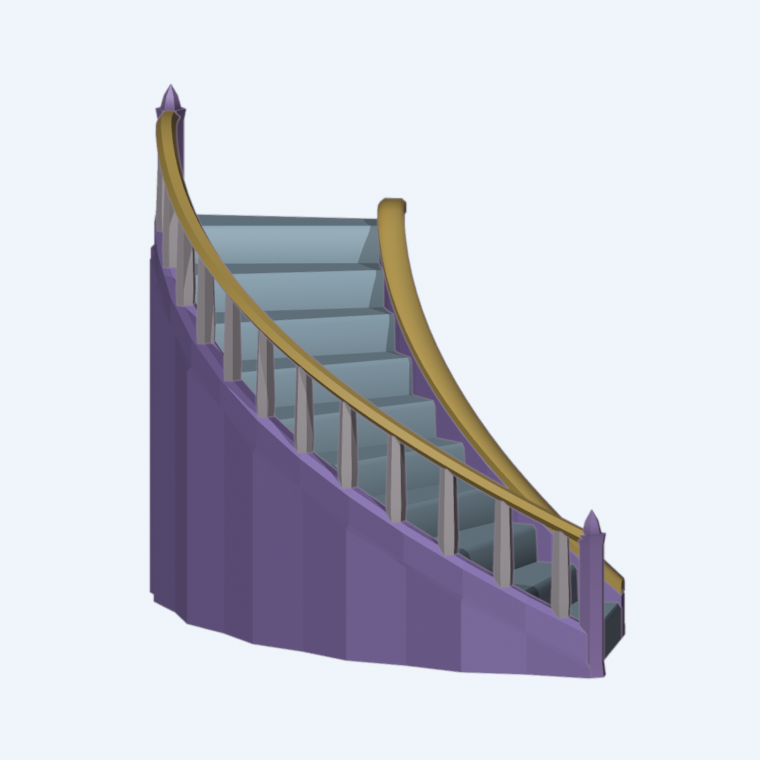
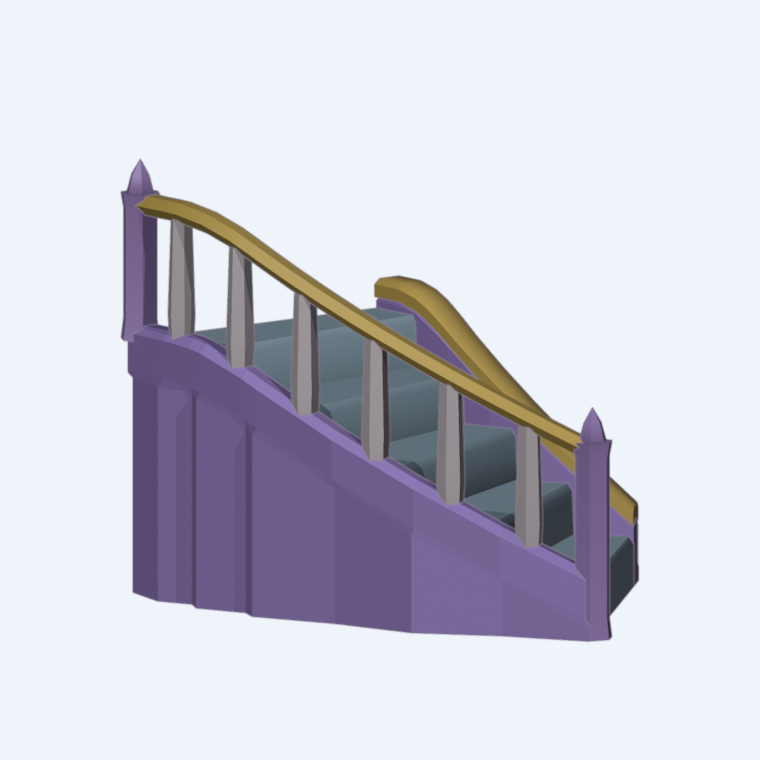
Review renders for the imperial composition, assembled from the builder's own constants
hotel_render.py now imports hotel_build, so the composition shots are laid out
from the very constants the geometry was made from — a sweep that changes moves
the render with it instead of quietly showing a composition that no longer
exists (which is what happened to staircase-pair-front last round).

New: staircase-straight, staircase-straight-rake, landing-nose, and three
assembly shots (iso, front elevation, and a close look at the landing where
three flights meet), the last three standing on plain stand-in slabs for the
floor, the landing and the gallery because whether the flights land on each
other is the whole question.

staircase-pair{,-front} are gone: that composition no longer exists.

Claude-Session: https://claude.ai/code/session_01BJHhmqvhccFFTUT8YTongf

Changed region(s): [[0.1513, 0.0908, 0.8474, 0.9079]]

diff --git a/art/blend/hotel_render.py b/art/blend/hotel_render.py
@@ -17,11 +17,28 @@ two disagree, the model file is right and this one is stale.
 
 import math
 import os
+import sys
 
 import bpy
 from mathutils import Vector
 
-REPO = os.path.dirname(os.path.dirname(os.path.dirname(os.path.abspath(__file__))))
+HERE = os.path.dirname(os.path.abspath(__file__))
+if HERE not in sys.path:
+    sys.path.insert(0, HERE)
+# No `__pycache__` beside the authoring scripts: `art/blend/` is a tracked
+# directory and `.gitignore` says nothing about `.pyc`, so importing a sibling
+# would leave a binary in `git status` after every review render.
+sys.dont_write_bytecode = True
+
+# **The composition shots take their arithmetic from the builder itself.**
+# `hotel_build` is import-safe (everything is behind `main()`), so the recipe
+# below is written in terms of the very constants the geometry was made from —
+# a stair whose sweep changes moves the review render with it instead of
+# quietly rendering a composition that no longer exists. Which is exactly what
+# happened to `staircase-pair-front` the first time round.
+import hotel_build as hb  # noqa: E402
+
+REPO = os.path.dirname(os.path.dirname(HERE))
 BLEND = os.path.join(REPO, "art", "blend", "hotel.blend")
 OUT = os.path.join(REPO, "art", "renders", "hotel")
 
@@ -108,6 +125,12 @@ COLOURS = {
     "stair-left-rail": 0xFFD76E,
     "stair-left-baluster": 0xFFF3F8,
     "stair-left-newel": 0xD7B3FF,
+    "stair-straight-tread": 0xCDEEFF,
+    "stair-straight-stringer": 0xC9A9FF,
+    "stair-straight-rail": 0xFFD76E,
+    "stair-straight-baluster": 0xFFF3F8,
+    "stair-straight-newel": 0xD7B3FF,
+    "landing-nose": 0xC9A9FF,  # PALETTE.markerLilac — the strings' own masonry
     "bridge-rail-plinth": 0xFFF2DC,  # PALETTE.signBoard
     "bridge-rail-baluster": 0xFFF3F8,  # PALETTE.blossomWhite
     "bridge-rail-hand": 0xFFD76E,  # PALETTE.liftFrame
@@ -124,18 +147,128 @@ COLOURS = {
 # uses it, because that is the arrangement the shapes have to work in.
 PART_SUFFIXES = ("tread", "stringer", "rail", "baluster", "newel")
 
-# The twin-stair placement, shared by both composition shots below. Written out
-# rather than inlined twice: the first version gave it only to the isometric
-# shot, and the front shot silently rendered both flights **stacked at the
-# origin** — which looks so plausible (a symmetric V of two mirrored flights
-# meeting at their feet) that it took measuring the picture to notice it was not
-# the composition at all. It is kept as its own shot below, because overlaid at
-# the origin is in fact the best mirror check there is.
-STAIR_PAIR_PLACES = {
-    f"stair-{hand}-{part}": (sign * 7.0, 0.0, 0.0)
-    for hand, sign in (("right", 1.0), ("left", -1.0))
-    for part in PART_SUFFIXES
-}
+# =============================================================================
+# The imperial composition, laid out from `hotel_build`'s own constants
+# =============================================================================
+#
+# Blender is the game's frame with **z up and y reversed**: game +Z is Blender
+# −y. The recipe below is written in Blender's, with the landing's front edge on
+# y = 0 and the composition climbing toward +y (which is the game's −Z, deeper
+# into the room, away from the entrance).
+#
+# `C` is the free parameter: how far apart the two arcs' centres are. It is
+# chosen so the two curves' **top newels** — which are the two ends of the
+# landing's front balustrade — come out a whole number of balustrade tiles
+# apart. A part-tile is the one thing that run cannot do.
+
+C = hb.STAIR_RAIL_R + 3.0 * hb.BRIDGE_RAIL_TILE
+"""Half the distance between the two arcs' centres: six tiles between the two
+top newels, which stand at x = ±(C − STAIR_RAIL_R) = ±3.06."""
+
+FRONT_HALF = C - hb.STAIR_RAIL_R
+"""…that run's half-length, and where the front balustrade stops each side."""
+
+SIDE_TILES = 5
+LANDING_BACK = SIDE_TILES * hb.BRIDGE_RAIL_TILE
+"""How far the platform reaches back from the curves' tops to the gallery it
+delivers you to — five tiles, so each side edge is a whole run too."""
+
+LANDING_DEPTH = LANDING_BACK - hb.STRAIGHT_RUN
+"""…and therefore where the straight flight's foot sits: what is left of the
+platform once the flight has taken its run out of it."""
+
+LANDING_HALF_X = C - hb.STAIR_INNER_R
+"""The platform's half width: out to the far end of each curve's top tread."""
+
+RAIL_INSET = 0.115
+"""Half the balustrade's depth. A run is set in by this much from the edge it
+guards, so its outer face lands exactly on that edge and the nosing below it
+still has its overhang in clear air."""
+
+
+def composition():
+    """Every piece of the assembly, as (object name, location, yaw°) in Blender.
+
+    One list, built once, so the isometric and the front elevation cannot
+    disagree about what they are showing — the exact bug that let
+    `staircase-pair-front` render two flights stacked at the origin for a whole
+    round of review.
+    """
+    places: list[tuple[str, tuple[float, float, float], float]] = []
+    # The two curves. `fromAngle = ±45°` — a rotation of ∓45° in both Blender
+    # and three.js — is what lands their top treads *square* to the landing,
+    # running along x with the climber heading into the room. With a 45° sweep
+    # you can have the foot square or the top square and not both; a floor takes
+    # a stair at any angle and a landing does not.
+    for hand, sign in (("right", 1.0), ("left", -1.0)):
+        for part in PART_SUFFIXES:
+            places.append((f"stair-{hand}-{part}", (sign * C, 0.0, 0.0), -sign * 45.0))
+    # The wide flight, standing on the landing with its bottom riser facing the
+    # entrance.
+    for part in PART_SUFFIXES:
+        places.append(
+            (f"stair-straight-{part}", (0.0, LANDING_DEPTH, hb.LANDING_HEIGHT), 0.0)
+        )
+    # The landing's front balustrade: six tiles between the two curves' top
+    # newels, which are the run's end posts — no extra newel there, because the
+    # stair already finishes with one and two posts in one place is a lump.
+    for i in range(6):
+        x = -FRONT_HALF + (i + 0.5) * hb.BRIDGE_RAIL_TILE
+        places.append(("bridge-rail-plinth", (x, RAIL_INSET, hb.LANDING_HEIGHT), 0.0))
+        places.append(("bridge-rail-baluster", (x, RAIL_INSET, hb.LANDING_HEIGHT), 0.0))
+        places.append(("bridge-rail-hand", (x, RAIL_INSET, hb.LANDING_HEIGHT), 0.0))
+        places.append(("landing-nose", (x, 0.0, hb.LANDING_HEIGHT), 0.0))
+    # …and its two side edges, the same tiles turned a quarter turn, from the
+    # front corner back to the gallery, with a newel on each end of each run.
+    for sign in (1.0, -1.0):
+        edge = sign * LANDING_HALF_X
+        yaw = sign * 90.0
+        for i in range(SIDE_TILES):
+            y = (i + 0.5) * hb.BRIDGE_RAIL_TILE
+            inset = edge - sign * RAIL_INSET
+            places.append(("bridge-rail-plinth", (inset, y, hb.LANDING_HEIGHT), yaw))
+            places.append(("bridge-rail-baluster", (inset, y, hb.LANDING_HEIGHT), yaw))
+            places.append(("bridge-rail-hand", (inset, y, hb.LANDING_HEIGHT), yaw))
+            places.append(("landing-nose", (edge, y, hb.LANDING_HEIGHT), yaw))
+        for y in (0.0, LANDING_BACK):
+            places.append(("bridge-newel", (edge - sign * RAIL_INSET, y, hb.LANDING_HEIGHT), 0.0))
+    return places
+
+
+# The floor, the landing and the gallery deck are the **room's** to build, not
+# this asset's — but a composition rendered without them is three flights
+# floating in white, and the whole question this shot exists to answer is
+# whether they land on each other. So the review render stands in for them with
+# plain boxes, in a scene it never saves. They are boxes on purpose: anything
+# more would start to look like art this file owns.
+STANDIN_SLAB = 0xD8CCEC
+STANDIN_FLOOR = 0xF4EEF9
+
+
+def standins():
+    """(name, size, centre) boxes for the assembly shot, in Blender metres."""
+    slab = 0.30
+    return [
+        (
+            "standin-floor",
+            (2 * (C - 0.8), LANDING_BACK + 4.6, 0.30),
+            (0.0, LANDING_BACK * 0.5 - 1.6, -0.15),
+            STANDIN_FLOOR,
+        ),
+        (
+            "standin-landing",
+            (2 * LANDING_HALF_X, LANDING_BACK, slab),
+            (0.0, LANDING_BACK * 0.5, hb.LANDING_HEIGHT - slab * 0.5),
+            STANDIN_SLAB,
+        ),
+        (
+            "standin-gallery",
+            (2 * (LANDING_HALF_X + 1.0), 3.4, slab),
+            (0.0, LANDING_BACK + 1.7, hb.STAIR_RISE - slab * 0.5),
+            STANDIN_SLAB,
+        ),
+    ]
+
 
 LAYOUTS = {
     "breakfast": {
@@ -166,17 +299,25 @@ LAYOUTS = {
         "lift-car-floor": (0.0, 1.45, 0.0),
         "lift-car-rail": (0.0, 1.45, 0.0),
     },
-    # **The composition shots.** Both flights are authored about the same origin,
-    # so as built they sit inside one another. This is the arrangement the
-    # reference photograph asks for: centres 14 m apart (game x = ±7, which is
-    # Blender's x unchanged), the two feet side by side toward the entrance, the
-    # two tops facing each other across a 5.6 m gap — which is the bridge's span
-    # and the width of the archway underneath it.
-    "staircase-pair": STAIR_PAIR_PLACES,
-    "staircase-pair-front": STAIR_PAIR_PLACES,
     # A newel centred on each end of a three-tile run. The handrail dies into
     # the post, which is what joinery does and what hides both end caps.
     "bridge-rail": {"bridge-newel": (-1.53, 0.0, 0.0)},
+}
+
+# Shots built entirely out of linked copies at absolute places, rather than out
+# of one collection sitting at its own origin: the composition is three flights,
+# twenty-odd balustrade tiles and a nosing run, and every one of them is a
+# *repeat* of an asset authored about its own origin.
+PLACEMENTS = {
+    "staircase-assembly": composition(),
+    "staircase-assembly-front": composition(),
+    "staircase-assembly-landing": composition(),
+}
+
+STANDINS = {
+    "staircase-assembly": standins(),
+    "staircase-assembly-front": standins(),
+    "staircase-assembly-landing": standins(),
 }
 
 # stem -> {object: [extra offsets]}. Linked copies made just for that shot and
@@ -189,6 +330,7 @@ COPIES = {
         "bridge-rail-hand": [(-1.02, 0.0, 0.0), (1.02, 0.0, 0.0)],
         "bridge-newel": [(3.06, 0.0, 0.0)],
     },
+    "landing-nose": {"landing-nose": [(-1.02, 0.0, 0.0), (1.02, 0.0, 0.0)]},
 }
 
 # Objects a shot leaves out entirely, by shot name.
@@ -247,11 +389,27 @@ SHOTS = [
     # true pair renders as an exactly left–right symmetric picture and anything
     # that is not a true pair renders as a picture that is not.
     ("staircase-mirror", ("hotel-stair-right", "hotel-stair-left"), 0.0, 14.0, 1.3),
-    # **The composition.** Both flights placed as the reference photograph has
-    # them: rising toward each other, tops facing across the bridge's span, an
-    # archway you can see straight through underneath.
-    ("staircase-pair", ("hotel-stair-right", "hotel-stair-left"), 45.0, 30.0, 1.15),
-    ("staircase-pair-front", ("hotel-stair-right", "hotel-stair-left"), 0.0, 12.0, 1.1),
+    # The wide flight on its own, from the park's camera and from the foot.
+    # The low one is the shot that says whether the two sides match: two
+    # handrails, two rows of balusters and four newels, all of which have to
+    # read as one flight rather than as two railings with a floor between them.
+    ("staircase-straight", "hotel-stair-straight", 45.0, 36.0, 1.35),
+    ("staircase-straight-rake", "hotel-stair-straight", 14.0, 9.0, 1.2),
+    # **The composition, assembled.** Three flights, the landing's balustrade
+    # and its nosing, at the spacing the placement recipe gives — standing on
+    # plain stand-in slabs for the floor, the landing and the gallery, because
+    # the question this shot exists to answer is whether they land on each
+    # other.
+    ("staircase-assembly", (), 45.0, 30.0, 1.12),
+    ("staircase-assembly-front", (), 0.0, 10.0, 1.06),
+    # …and a closer, lower look at the one join that is new: three flights and
+    # two balustrade runs meeting on the landing.
+    ("staircase-assembly-landing", (), 24.0, 26.0, 0.72),
+    # The nosing, tiled, and **cropped to the joins**. Same question as
+    # `bridge-rail`: can you see where one segment stops and the next starts?
+    # A 3 m run of a 0.2 m moulding framed whole is a stick, and a stick answers
+    # nothing — the pad crops to the middle 1.7 m, which holds both joins.
+    ("landing-nose", "hotel-landing-nose", 30.0, 26.0, 0.55),
     # Three tiles and a newel at each end. The only question this shot exists to
     # answer: can you see where one segment stops and the next starts?
     ("bridge-rail", ("hotel-bridge-rail", "hotel-bridge-newel"), 34.0, 22.0, 1.35),
@@ -299,6 +457,35 @@ def configure() -> None:
     scene.display.render_aa = "16"
     for obj in bpy.data.objects:
         obj.color = linear_rgba(COLOURS.get(obj.name, 0xCCCCCC))
+
+
+def standin_box(name: str, size, centre, colour: int):
+    """A plain box for a floor this asset does not own. Removed after the shot."""
+    hx, hy, hz = (s * 0.5 for s in size)
+    verts = [
+        (-hx, -hy, -hz),
+        (hx, -hy, -hz),
+        (hx, hy, -hz),
+        (-hx, hy, -hz),
+        (-hx, -hy, hz),
+        (hx, -hy, hz),
+        (hx, hy, hz),
+        (-hx, hy, hz),
+    ]
+    # Wound outward by hand. `hotel_build`'s `box()` is wound the other way and
+    # gets away with it because `Part.emit` recalculates normals; nothing does
+    # that here, and a slab whose top face points at the floor renders as a
+    # sheet of mid grey — which reads as a lighting choice rather than as the
+    # mistake it is.
+    faces = [(0, 3, 2, 1), (4, 5, 6, 7), (0, 1, 5, 4), (1, 2, 6, 5), (2, 3, 7, 6), (3, 0, 4, 7)]
+    mesh = bpy.data.meshes.new(name)
+    mesh.from_pydata(verts, [], faces)
+    mesh.validate(verbose=False)
+    obj = bpy.data.objects.new(name, mesh)
+    obj.location = centre
+    obj.color = linear_rgba(colour)
+    bpy.context.scene.collection.objects.link(obj)
+    return obj
 
 
 def frame(objects, azimuth_deg: float, elevation_deg: float, camera, pad: float = 1.22) -> None:
@@ -368,6 +555,27 @@ def main() -> None:
                 clone.color = source.color
                 bpy.context.scene.collection.objects.link(clone)
                 copies.append(clone)
+        # …and the same mechanism for a whole assembly: absolute places and a
+        # yaw each, plus the plain boxes that stand in for the room's floors.
+        for name, location, yaw in PLACEMENTS.get(stem, ()):
+            source = bpy.data.objects[name]
+            clone = source.copy()
+            clone.location = location
+            clone.rotation_mode = "XYZ"
+            clone.rotation_euler = (0.0, 0.0, math.radians(yaw))
+            clone.color = source.color
+            # **The clone inherits `hide_render` from its source**, and the
+            # source was hidden three lines ago because it is not in this shot's
+            # collection list — a placement shot has no collection. The first
+            # run of the assembly render was three stand-in slabs and nothing
+            # else, which is a picture that looks like a composition problem and
+            # is a visibility one.
+            clone.hide_render = False
+            bpy.context.scene.collection.objects.link(clone)
+            copies.append(clone)
+        for name, size, centre, colour in STANDINS.get(stem, ()):
+            box = standin_box(name, size, centre, colour)
+            copies.append(box)
         shown.extend(copies)
         bpy.context.view_layer.update()
         frame(shown, azimuth, elevation, camera, pad)
@@ -376,7 +584,10 @@ def main() -> None:
         bpy.ops.render.render(write_still=True)
         print(f"  {stem:<22} {os.path.getsize(path):>8} bytes")
         for clone in copies:
+            mesh = clone.data if clone.name.startswith("standin-") else None
             bpy.data.objects.remove(clone, do_unlink=True)
+            if mesh is not None:
+                bpy.data.meshes.remove(mesh)
     print()
 
 
